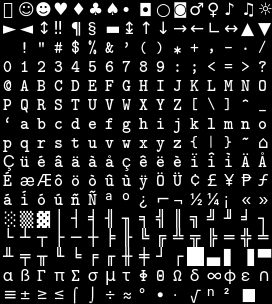
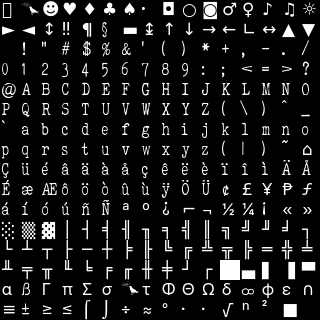
ui improvements and change of skill/ability names

diff --git a/guildmaster/ui.py b/guildmaster/ui.py
@@ -22,8 +22,9 @@ class GameScreen:
     '''
     def __init__(self, height=60, width=90, fps=30, panel_height=PANEL_HEIGHT,
                  hp_bar_width=BAR_WIDTH, alt_layout=False,
-                 # font='guildmaster/fonts/terminal12x12_gs_ro.png',
-                 font='guildmaster/fonts/hack15x15.png',
+                 font='guildmaster/fonts/terminal16x16_gs_ro.png',
+                 # font='guildmaster/fonts/typewriter14x14.png',
+                 # font='guildmaster/fonts/hack15x15.png',
                  vim_bindings=VIM_BINDINGS):
         self.width = width
         self.height = height
@@ -89,7 +90,7 @@ class GameScreen:
                |_____\___|\__| |___/ |_____\___/ \___/ \__(_)
 ''',
                 80, 30, ['New', 'Continue', 'Quit'], ['n', 'c', 'q'],
-                bg=None, ascii_art=True)
+                bg=None, ascii_art=True, show_root=False)
 
             if choice == 0:
                 # TODO: always load persistant guild state
@@ -193,20 +194,8 @@ class GameScreen:
             for obj in self.objects:
                 self.render_object(obj)
 
-            # Blit the hidden console to the screen
-            self.root.blit(self.con, 0, self.panel_height, self.width,
-                           self.map_height, 0, 0)
-
-            # Blit the panel
-            self.panel.render_bg()
-            self.panel.render_stats(self.player)
-
-            self.panel.render_messages(self.messages)
-
-            self.root.blit(self.panel.panel, 0, 0, self.width,
-                           self.panel_height, 0, 0)
-
-            tdl.flush()
+            # Display the main UI
+            self.blit_ui()
 
             # Clear the screen
             for obj in self.objects:
@@ -221,6 +210,23 @@ class GameScreen:
 
             if should_exit:
                 break
+
+    def blit_ui(self):
+        '''Blit the main ui to the root console'''
+        # Blit the hidden console to the screen
+        self.root.blit(self.con, 0, self.panel_height, self.width,
+                       self.map_height, 0, 0)
+
+        # Blit the panel
+        self.panel.render_bg()
+        self.panel.render_stats(self.player)
+
+        self.panel.render_messages(self.messages)
+
+        self.root.blit(self.panel.panel, 0, 0, self.width,
+                       self.panel_height, 0, 0)
+
+        tdl.flush()
 
     def handle_keys(self, lmap):
         '''
@@ -288,6 +294,7 @@ class GameScreen:
             if should_exit == 0:
                 # TODO: implement run saving
                 self.root.clear()
+                tdl.flush()
                 return compute_fov_agro, True, tick
 
         for message in messages:
@@ -315,12 +322,12 @@ class GameScreen:
 
         x = self.width // 2 - width // 2
         y = self.height // 2 - height // 2
-        self.root.blit(window, x, y, width, height, 0, 0)
+        self.root.blit(window, x, y, width, height, 0, 0, bg_alpha=0.75)
         tdl.flush()
         tdl.event.key_wait()
 
     def menu_selection(self, title, width, height, options, keys=None,
-                       bg=DARK0, ascii_art=False):
+                       bg=DARK0, ascii_art=False, show_root=True):
         '''Render a menu and return a selected index from options'''
         def chunked(l):
             return [l[i:i+26] for i in range(0, len(l), 26)]
@@ -361,7 +368,9 @@ class GameScreen:
 
             x = self.width // 2 - width // 2
             y = self.height // 2 - height // 2
-            self.root.blit(window, x, y, width, height, 0, 0)
+            if show_root:
+                self.blit_ui()
+            self.root.blit(window, x, y, width, height, 0, 0, bg_alpha=0.75)
             tdl.flush()
 
             # NOTE: The menu activation keystroke seems to hang around
@@ -441,7 +450,8 @@ class Panel:
         self.render_bar(
             1, 2, 'HP', player.HP, player.MAX_HP, BRIGHT_RED, FADED_RED)
         self.render_bar(
-            1, 3, 'SP', player.SP, player.MAX_SP, BRIGHT_AQUA, FADED_AQUA)
+            1, 3, 'FP', player.FOCUS, player.MAX_FOCUS,
+            BRIGHT_AQUA, FADED_AQUA)
         self.render_bar(
             1, 4, 'XP', player.current_xp, player.next_level, LIGHT4, DIM_FG1)
 

diff --git a/guildmaster/creatures.py b/guildmaster/creatures.py
@@ -17,24 +17,22 @@ class Creature(GameObject):
     alive = True
     player_character = False
 
-    def __init__(self, STR=1, DEX=1, CON=1, INT=1, WIS=1, KNW=1,
-                 MAX_HP=1, MAX_SP=0, x=1, y=1, char='@',
+    def __init__(self, STR=1, DEX=1, INT=1, VIT=1,
+                 MAX_HP=1, MAX_FOCUS=0, x=1, y=1, char='@',
                  colour=(0, 0, 0), block_move=False):
         super().__init__(x, y, char, colour, block_move)
 
         self.MAX_HP = MAX_HP
         self.HP = MAX_HP
-        self.MAX_SP = MAX_SP
-        self.SP = MAX_SP
+        self.MAX_FOCUS = MAX_FOCUS
+        self.FOCUS = MAX_FOCUS
         self.consious = True
         self.stunned = False
 
         self.STR = STR
         self.DEX = DEX
-        self.CON = CON
         self.INT = INT
-        self.WIS = WIS
-        self.KNW = KNW
+        self.VIT = VIT
 
         self.equipment = {
             'head': None, 'chest': None,
@@ -53,7 +51,7 @@ class Creature(GameObject):
 
     @property
     def passive_perception(self):
-        base = 10 + self.modifier('WIS')
+        base = 10 + self.modifier('INT')
         # TODO: handle item effects
         return base
 
@@ -73,27 +71,17 @@ class Creature(GameObject):
         else:
             return AC + dex_mod
 
-    def skill_check(self, stat, DC, modifier=0,
-                    advantage=False, disadvantage=False):
+    def skill_check(self, stat, DC, modifier=0):
         '''
         Make a skill check against a base stat. Additional modifiers are
         applied by the caller.
         '''
-        if advantage and disadvantage:
-            # having both cancels out
-            advantage = disadvantage = False
-
         result = roll()
 
         if result == 1:
             return SkillCheckResult(success=False, crit=True)
         if result == 20:
             return SkillCheckResult(success=True, crit=True)
-
-        if advantage:
-            result = max(result, roll())
-        elif disadvantage:
-            result = min(result, roll())
 
         result = result + self.modifier(stat) + modifier
 
@@ -199,9 +187,9 @@ class Creature(GameObject):
         else:
             messages = []
 
-        if self.MAX_SP > 0 and (self.SP < self.MAX_SP):
-            sp_messages = self.recover_sp(1)
-            messages.extend(sp_messages)
+        if self.MAX_FOCUS > 0 and (self.FOCUS < self.MAX_FOCUS):
+            focus_messages = self.recover_focus(1)
+            messages.extend(focus_messages)
 
         if len(messages) == 0:
             # Already max HP and SP
@@ -224,12 +212,12 @@ class Creature(GameObject):
                       LIGHT0)
         return [msg]
 
-    def recover_sp(self, amount):
-        '''recover spell points up to MAX_SP'''
-        self.SP += amount
+    def recover_focus(self, amount):
+        '''recover focus points up to MAX_FOCUS'''
+        self.FOCUS += amount
 
-        if self.SP > self.MAX_SP:
-            self.SP = self.MAX_SP
+        if self.FOCUS > self.MAX_FOCUS:
+            self.FOCUS = self.MAX_FOCUS
 
         msg = Message('{} recovered {} spell points'.format(self.name, amount),
                       LIGHT0)
@@ -279,7 +267,7 @@ class Creature(GameObject):
         messages = []
         # TODO: add in modifiers from equipment? (maybe handle in skill check)
         #       look for traps
-        res = self.skill_check('KNW', 20)
+        res = self.skill_check('INT', 20)
         if res.success:
             for tile in map.neighbouring_tiles(self.x, self.y):
                 if tile.name == 'secret_door':

diff --git a/guildmaster/player_character.py b/guildmaster/player_character.py
@@ -28,17 +28,12 @@ def new_PC(name, PC_race='Human', PC_class='Adventurer'):
     # Generate ability scores
     ranked_scores = sorted(random_ability_scores(), reverse=True)
     ability_scores = dict(zip(PC_class['statOrder'], ranked_scores))
-    ability_scores['MAX_HP'] = (sum(PC_class['hitDice']) +
-                                (ability_scores['CON'] - 10) // 2)
-    if PC_class['castingStat'] is not None:
-        ability_scores['MAX_SP'] = (
-            roll(PC_class['spellDice']) +
-            (ability_scores[PC_class['castingStat']] - 10) // 2)
-    else:
-        ability_scores['MAX_SP'] = 0
+    ability_scores['MAX_HP'] = sum(PC_class['hitDice']) + ability_scores['VIT']
+    ability_scores['MAX_FOCUS'] = (roll(PC_class['focusDice']) +
+                                   ability_scores['INT'])
 
     # Apply racial stat modifiers
-    for stat, mod in zip(['STR', 'DEX', 'CON', 'INT', 'WIS', 'KNW'],
+    for stat, mod in zip(['STR', 'DEX', 'INT', 'VIT'],
                          PC_race['statBonus']):
         ability_scores[stat] += mod
 
@@ -57,11 +52,9 @@ def new_PC(name, PC_race='Human', PC_class='Adventurer'):
 
     # Copy over Class details
     PC.hit_dice = PC_class['hitDice']
-    PC.spell_dice = PC_class['spellDice']
-    PC.casting_stat = PC_class['castingStat']
+    PC.focus_dice = PC_class['focusDice']
     PC.trained += PC_class['trained']
     PC.abilites += PC_class['abilities']
-    PC.on_level_up = PC_class['onLevelUp']
     PC.agro_base += PC_class['agroModifier']
 
     # Fetch starting equipment and gold

diff --git a/guildmaster/dungeon/mapgen.py b/guildmaster/dungeon/mapgen.py
@@ -6,7 +6,7 @@ import math
 from random import choice, randint
 from .pathfinding import PathFinder
 from ..utils import GameObject, Message, key_to_coords, roll
-from ..config import DARK0, DARK4, WHITE, FADED_BROWN
+from ..config import DARK0, DARK1, DARK4, WHITE, FADED_BROWN
 from ..config import MIN_ROOM_SIZE, MAX_ROOM_SIZE, MAX_ROOMS, LIGHT1
 
 
@@ -28,7 +28,7 @@ class Tile:
     def wall(self):
         self.name = 'wall'
         self.char = '#'
-        self.fg, self.bg = DARK4, DARK0
+        self.fg, self.bg = DARK4, DARK1
         self.block_move, self.block_sight = True, True
         self.agro_cost = 4
 
@@ -62,7 +62,7 @@ class Tile:
     def secret_door(self):
         self.name = 'secret_door'
         self.char = "#"
-        self.fg, self.bg = DARK4, DARK0
+        self.fg, self.bg = DARK4, DARK1
         self.block_move, self.block_sight = True, True
         self.agro_cost = 3
 

diff --git a/notes/keybindings.md b/notes/keybindings.md
@@ -3,10 +3,11 @@ Key Bindings
 
 # Movement
 arrow keys : move
-shift + arrow : move until blocked or enemy enters vision
-> : decend stairs
-< : ascend stairs
-. : stay still (enemies still move)
+numpad: move
+hjlkyubn: move
+shift + move : move until blocked or enemy enters vision
+ctrl + move: stealth move (cost two turns but agro -1)
+5 : stay still (enemies still move)
 
 # Menus
 i : inventory menu
@@ -20,11 +21,9 @@ G : gain a new spell/ability (if available)
 C : character sheet
 
 # Actions
-g : grab what's on the floor (opens a menu if things are stacked)
-R : rest
-b : bash a door or lock
-o : open something
-c : close something
+, : interact with the floor
+z : rest one turn
+Z : rest until healed
 z : cast magic (zap)
 A : activate item in main
 f : fire main

diff --git a/notes/gameplay.md b/notes/gameplay.md
@@ -48,3 +48,31 @@ well, boring.
 - Setting member contracts and perks
 - Planning and running adventures
 
+
+# Player stats
+STR: damage mod, carrying/burden, crit damage
+DEX: hit, evasion, crit chance
+VIT: hp, toughness/dr, regen rate
+INT: sp, spell power [arcane], xp rate
+
+# Skills
+Melee, Archery, Firearms, Arcane, Divine, Stealth, Tactics
+
+# Item stats
+The general rule (taken from Sil): (offence) [defence]
+
+> Weapons
+---------
+(hitMod, damageDice) [evMod]
+i.e.
+  Long Sword: (+1, 2d6) [+1]
+  Short Sword (0, 1d8)  [+2]
+  Dagger      (+1, 1d6) [+1]
+
+> Armour
+--------
+(hitMod) [evMod, absorb]
+i.e.
+  Leather (0)  [0, 1d4]
+  Studded (0)  [-1, 1d5]
+  Mail    (-2) [-2, 2d4]

diff --git a/notes/characters.md b/notes/characters.md
@@ -60,8 +60,8 @@ _"COLD STEEL!"_
 Goal: hitting things with hammers
 - Very strong and able to repair/upgrade equipment.
 
-Archivist
----------
+Mage
+----
 _"Knowledge is power!"_
 Goal: hoarding books
 - Becomes the mage class when magic is discovered
